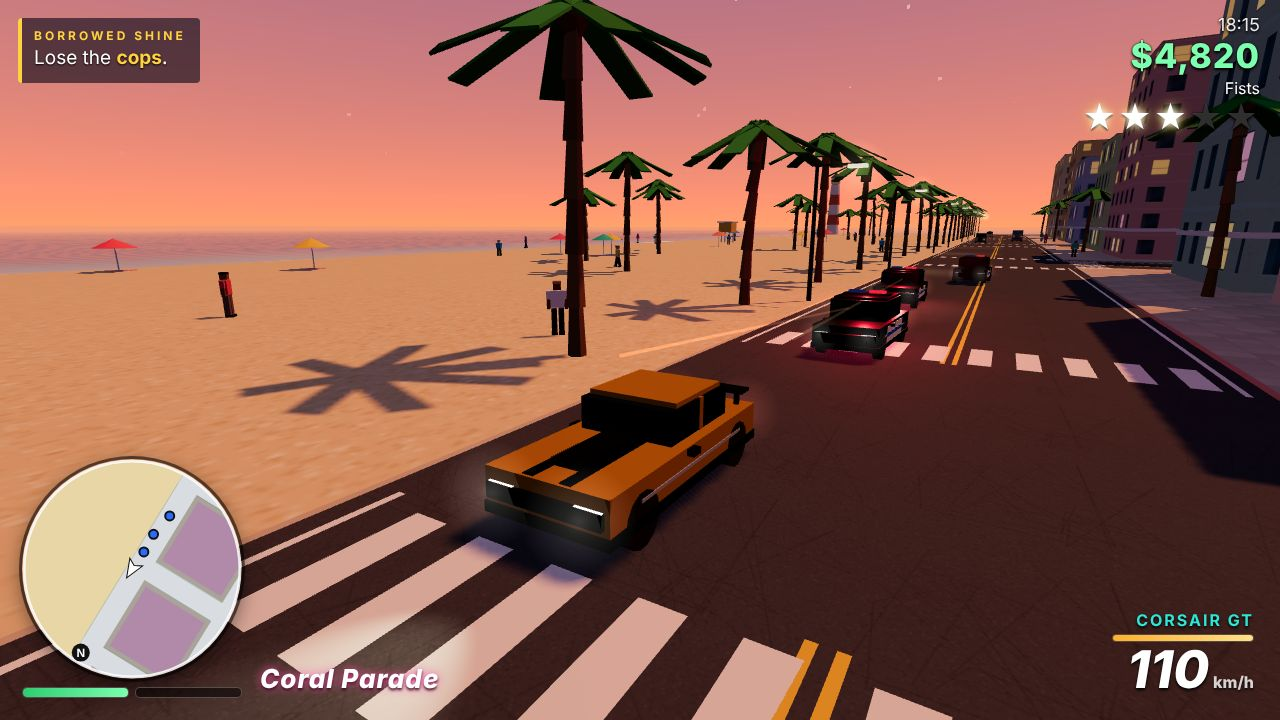
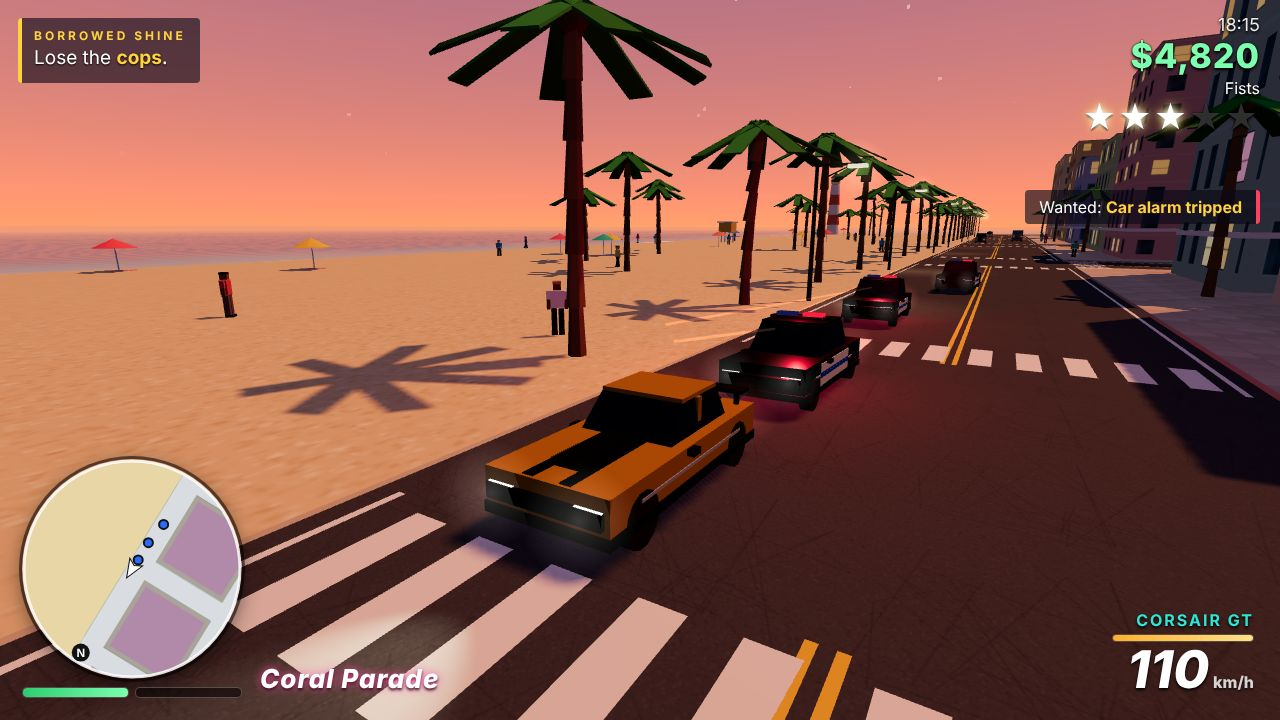
Sloped car glasshouses, game-time toasts, refreshed screenshots
Claude-Session: https://claude.ai/code/session_01Ptu9xu8GQGpvqZFmJZumfW

diff --git a/game/src/vehicleModels.js b/game/src/vehicleModels.js
@@ -15,7 +15,7 @@ export const VEHICLE_TYPES = {
   police: { name: 'Bay PD Interceptor', len: 4.8, wid: 2.0, hgt: 0.75, cabin: [2.4, 0.65, 1.75], cabinZ: -0.2, wheelR: 0.38, maxSpeed: 50, accel: 1.3, mass: 1.3, colors: ['#10141c'] },
 };
 
-const GLASS = new THREE.Color('#1b2633');
+const GLASS = new THREE.Color('#22364a');
 const TRIM = new THREE.Color('#1a1a1a');
 const CHROME = new THREE.Color('#c9ced6');
 const wheelGeo = new THREE.CylinderGeometry(1, 1, 1, 14).rotateZ(Math.PI / 2);
@@ -40,10 +40,13 @@ function bodyGeometry(type, color) {
   g.addBox(0, base + H * 0.35, -L / 2 - 0.03, W * 0.94, 0.18, 0.1, TRIM);      // rear bumper
   const [cl, ch, cw] = t.cabin;
   const cy = base + H + ch / 2;
-  g.addBox(0, cy, t.cabinZ, cw, ch, cl, GLASS);
-  g.addBox(0, cy + ch / 2 + 0.04, t.cabinZ, cw * 0.96, 0.08, cl * 0.8, paint);  // roof
-  g.addBox(cw / 2 - 0.02, cy, t.cabinZ, 0.06, ch, 0.12, paint);                // B pillars
-  g.addBox(-cw / 2 + 0.02, cy, t.cabinZ, 0.06, ch, 0.12, paint);
+  // the glasshouse narrows toward the roof so the windscreen and rear window slope
+  const taper = type === 'van' ? 0.08 : type === 'suv' ? 0.18 : 0.36;
+  const shift = type === 'van' ? 0 : -cl * 0.06;
+  g.addBox(0, cy, t.cabinZ, cw, ch, cl, GLASS, { taper, taperShift: shift, taperX: 0.1 });
+  g.addBox(0, cy + ch / 2 + 0.03, t.cabinZ + shift, cw * 0.9, 0.07, cl * (1 - taper) * 0.98, paint);  // roof
+  g.addBox(cw / 2 - 0.05, cy, t.cabinZ, 0.06, ch, 0.12, paint);                // B pillars
+  g.addBox(-cw / 2 + 0.05, cy, t.cabinZ, 0.06, ch, 0.12, paint);
   g.addBox(W / 2 + 0.06, base + H * 0.9, t.cabinZ + cl / 2 - 0.2, 0.12, 0.1, 0.22, TRIM); // mirrors
   g.addBox(-W / 2 - 0.06, base + H * 0.9, t.cabinZ + cl / 2 - 0.2, 0.12, 0.1, 0.22, TRIM);
   g.addBox(W / 2 + 0.01, base + H * 0.55, 0, 0.02, 0.05, L * 0.7, CHROME);    // side strips

diff --git a/game/src/hud.js b/game/src/hud.js
@@ -55,6 +55,7 @@ export class Hud {
     this.card = el('div', 'hud-card', root);
     this.hint = el('div', 'hud-hint', root);
 
+    this.toastList = [];   // { el, age }: toasts fade by game time, not wall-clock time
     this.queue = [];
     this.lineTimer = 0;
     this.talking = false;
@@ -67,9 +68,8 @@ export class Hud {
 
   toast(text, kind = '') {
     const t = el('div', `hud-toast ${kind}`, this.toasts, highlight(text));
-    setTimeout(() => t.classList.add('out'), 2600);
-    setTimeout(() => t.remove(), 3200);
-    while (this.toasts.children.length > 4) this.toasts.firstChild.remove();
+    this.toastList.push({ el: t, age: 0 });
+    while (this.toastList.length > 4) this.toastList.shift().el.remove();
   }
 
   banner(title, sub = '', kind = '') {
@@ -153,7 +153,12 @@ export class Hud {
     this.crosshair.classList.toggle('show', !p.inVehicle && p.weapon !== 'fists');
     this.crosshair.classList.toggle('aim', p.aiming);
 
-    if (this.talking || this.lineTimer > 0) { this.lineTimer -= dt; if (this.lineTimer <= 0) this.nextLine(); }
+    for (const t of [...this.toastList]) {
+      t.age += dt;
+      if (t.age > 2.6) t.el.classList.add('out');
+      if (t.age > 3.2) { t.el.remove(); this.toastList.splice(this.toastList.indexOf(t), 1); }
+    }
+        if (this.talking || this.lineTimer > 0) { this.lineTimer -= dt; if (this.lineTimer <= 0) this.nextLine(); }
     if (this.bannerTimer > 0) { this.bannerTimer -= dt; if (this.bannerTimer <= 0) this.bannerEl.classList.remove('show'); }
     if (this.cardTimer > 0) { this.cardTimer -= dt; if (this.cardTimer <= 0) this.card.classList.remove('show'); }
     if (this.radioTimer > 0) { this.radioTimer -= dt; if (this.radioTimer <= 0) this.radio.classList.remove('show'); }

diff --git a/game/src/geometryBatch.js b/game/src/geometryBatch.js
@@ -45,8 +45,11 @@ export class GeometryBatch {
       for (const [a, b] of corners) {
         const lx = face.n[0] * half[0] + face.u[0] * a * half[0] + face.v[0] * b * half[0];
         const ly = face.n[1] * half[1] + face.u[1] * a * half[1] + face.v[1] * b * half[1];
-        const lz = face.n[2] * half[2] + face.u[2] * a * half[2] + face.v[2] * b * half[2];
-        this.pos.push(x + lx * cos + lz * sin, y + ly, z - lx * sin + lz * cos);
+        let lz = face.n[2] * half[2] + face.u[2] * a * half[2] + face.v[2] * b * half[2];
+        let lxT = lx;
+        // taper: shrink the top of the box (sloped windscreens on car cabins)
+        if (opts.taper && ly > 0) { lz = lz * (1 - opts.taper) + (opts.taperShift || 0); lxT = lx * (1 - (opts.taperX || 0)); }
+        this.pos.push(x + lxT * cos + lz * sin, y + ly, z - lxT * sin + lz * cos);
         const nx = face.n[0]; const nz = face.n[2];
         this.nor.push(nx * cos + nz * sin, face.n[1], -nx * sin + nz * cos);
         if (f === 2 || f === 3) {

diff --git a/game/src/shots.js b/game/src/shots.js
@@ -81,7 +81,8 @@ const SCENES = {
     game.camera.pitch = 0.3;
     game.camera.freeLookTimer = 100;
     game.camera.snap();
-    game.hud.toasts.innerHTML = '';
+    for (const t of game.hud.toastList) t.el.remove();
+    game.hud.toastList = [];
     game.hud.toast('Wanted: ~Car alarm tripped~', 'bad');
   },
 
